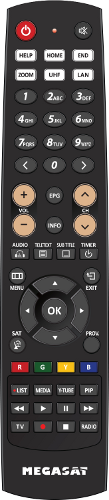
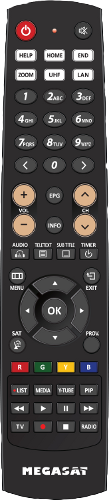
fix megasat web remote

diff --git a/BoxBranding/remotes/megasat2/remote.html b/BoxBranding/remotes/megasat2/remote.html
@@ -1,4 +1,4 @@
-<img border='0' src='static/remotes/iqon2/rc.png' usemap='#map' >
+<img border='0' src='static/remotes/megasat2/rc.png' usemap='#map' >
 <map name="map">
 	<area shape="rect" coords="98,62,118,72" id="113" alt="mute" onclick="pressMenuRemote('113');">
 	<area shape="rect" coords="105,28,15" id ="116" alt="Power" onclick="pressMenuRemote('116');">
